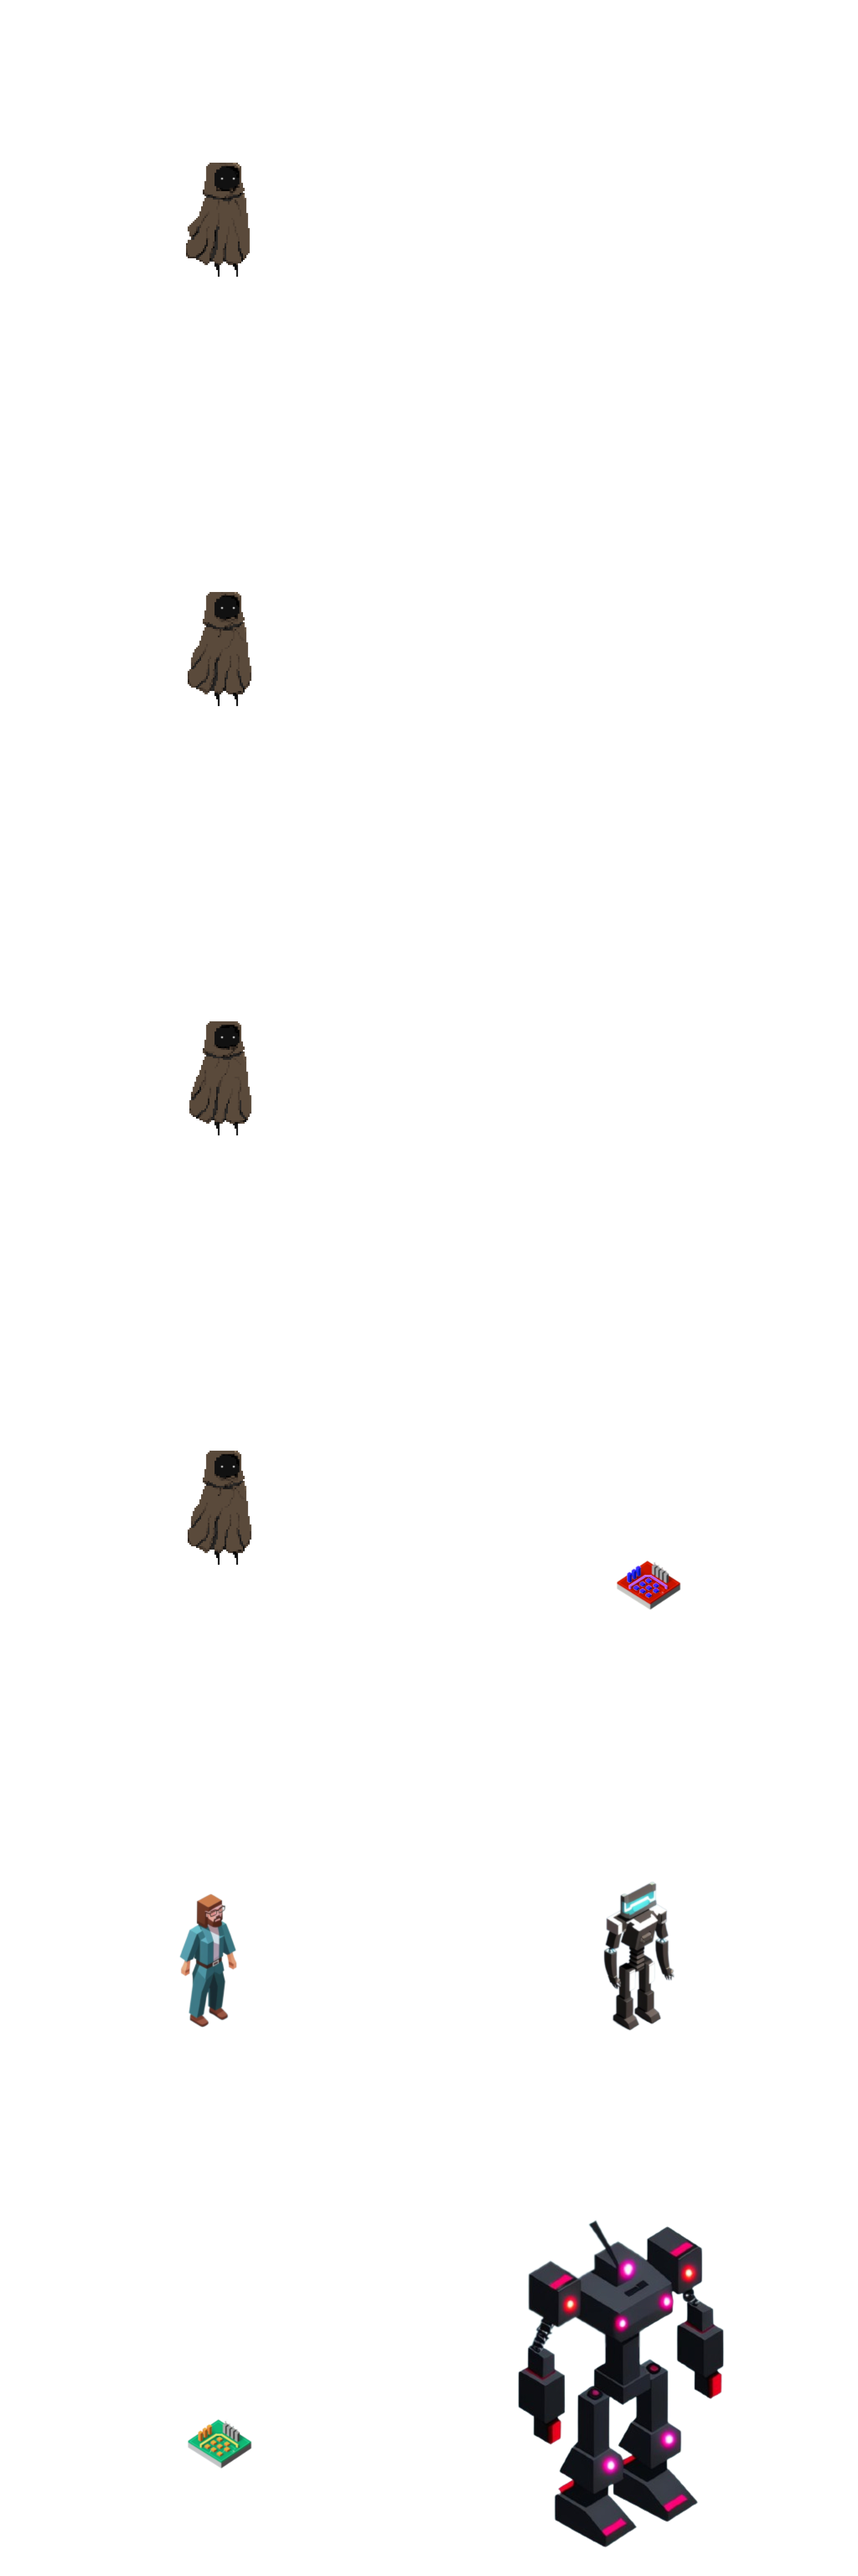
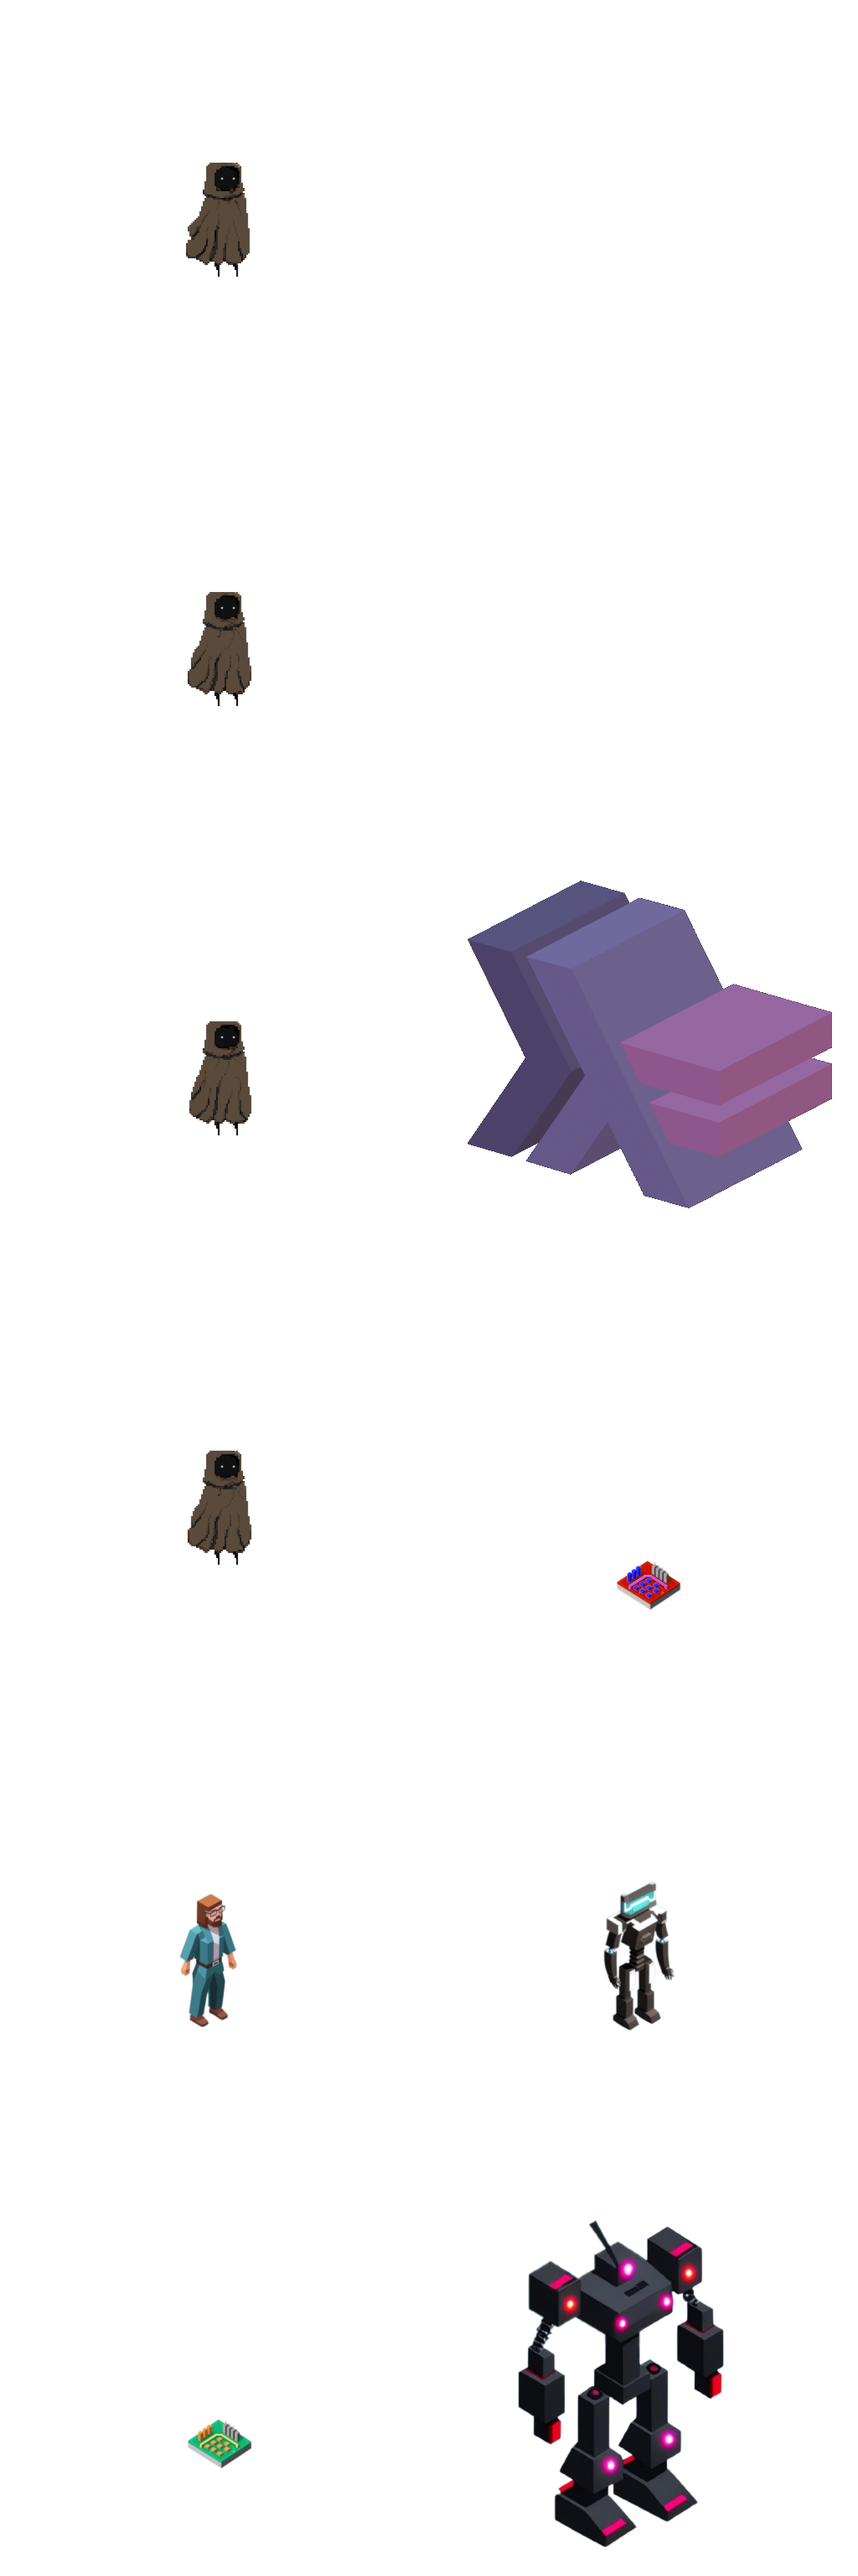
Fixed haskell boss texture

Changed region(s): [[0.5312, 0.3438, 0.9688, 0.4688]]

diff --git a/extension/game.c b/extension/game.c
@@ -56,7 +56,11 @@ void updateDialogue(GameState* state)
 {
     if(state->player->isInDialogue)
     {
-        if(state->player->lastSkip + state->guiState->dialogue->skipCooldown < glfwGetTime())
+        if (glfwGetKey(state->window, GLFW_KEY_SPACE))
+        {  
+                state->player->isInDialogue = false;
+        }
+        else if(state->player->lastSkip + state->guiState->dialogue->skipCooldown < glfwGetTime())
         {
             state->guiState->dialogue->isSkippable = true;
 
@@ -73,6 +77,7 @@ void updateDialogue(GameState* state)
 
                 state->player->lastSkip = glfwGetTime();
             }
+
         }
     }
 
@@ -162,7 +167,7 @@ void updateLogic(GameState* state, double dt)
     for (Entity **entity = state->currentLevel->currentRoom->entities + 1; *entity; entity++)
     {
         if (!Vec2d_zero((*entity)->attack_velocity))
-            handle_attack(*entity, NULL, SPAWN_ENTITY);
+            handle_attack(*entity, state->player->entity, SPAWN_ENTITY);
     }
 
     move(state, arr, dt);

diff --git a/extension/predefinedRooms/room_generator.c b/extension/predefinedRooms/room_generator.c
@@ -8,7 +8,7 @@
 #include "structure_builder.h"
 #include "generator_attributes.h"
 #include "../haskell.h"
-//#include "monster_spawner.h"
+#include "monster_spawner.h"
 
 void put_tiles(Room* room, Mode mode)
 {
@@ -74,7 +74,7 @@ Room *generate_room(int seed, Mode mode)
 
     if (seed == -1)
     {
-        srand48(clock());
+        srand(time(NULL));
     }
     else
     {
@@ -142,9 +142,9 @@ void room_to_file(Room* room, MonsterType** monsters)
     //Freeing tile space.
     for(int i = 0; i < height; i++)
     {
-        free(tiles[i]);
+        free(room->tiles[i]);
     }
-    free(tiles);
+    free(room->tiles);
 
     //Freeing monsters space.
     for(int i = 0; i < height; i++)

diff --git a/extension/haskell.c b/extension/haskell.c
@@ -98,5 +98,5 @@ void construct_haskell(Entity *monster)
     *monster = (Entity) {.ATK = 10, .canFly = false,
             .hitbox = (Rectangle){(Vec2d){-1, -1}, (Vec2d){1, 1}},
             .HP = 300, .maxHP = 300, .SPD = 2, .velocity = (Vec2d){0.0, 0.0},
-            .attack_func = haskell_attack, .faction = ENEMY, .attack_SPD = 6, .attack_cooldown = 20};
+            .attack_func = haskell_attack, .faction = ENEMY, .attack_SPD = 6, .attack_cooldown = 20, .currentAnimation = NULL, .textureID = 7};
 }

diff --git a/extension/render.c b/extension/render.c
@@ -447,6 +447,7 @@ void render(GameState* gState, RenderState* state)
         if (state->isoMesh2.vertexCount != 0)
         {
             Vec2d offset = Vec2i_to_Vec2d(Vec2i_add(gState->currentLevel->prevRoomCoords, Vec2i_scale(gState->currentLevel->currRoomCoords, -1.0)));
+            printf ("offset %f %f\n", offset.x, offset.y);
             if (offset.x > 0 || offset.y >  0)
             {
 

diff --git a/extension/level.c b/extension/level.c
@@ -47,6 +47,7 @@ void jump_to_next_room(GameState *state)
     {
         level->prevRoomCoords = level->currRoomCoords;
         level->currRoomCoords = newRoomCoords;
+        level->prevRoom = level->currentRoom;
         *level->currentRoom->entities = NULL;
         level->currentRoom = newRoom;
         *newRoom->entities = state->player->entity;

diff --git a/extension/level.h b/extension/level.h
@@ -9,7 +9,7 @@ typedef struct GameState GameState;
 typedef struct Level
 {
     Room ***map;
-    Room *currentRoom;
+    Room *currentRoom, *prevRoom;
     Vec2i currRoomCoords, prevRoomCoords;
 } Level;
 
